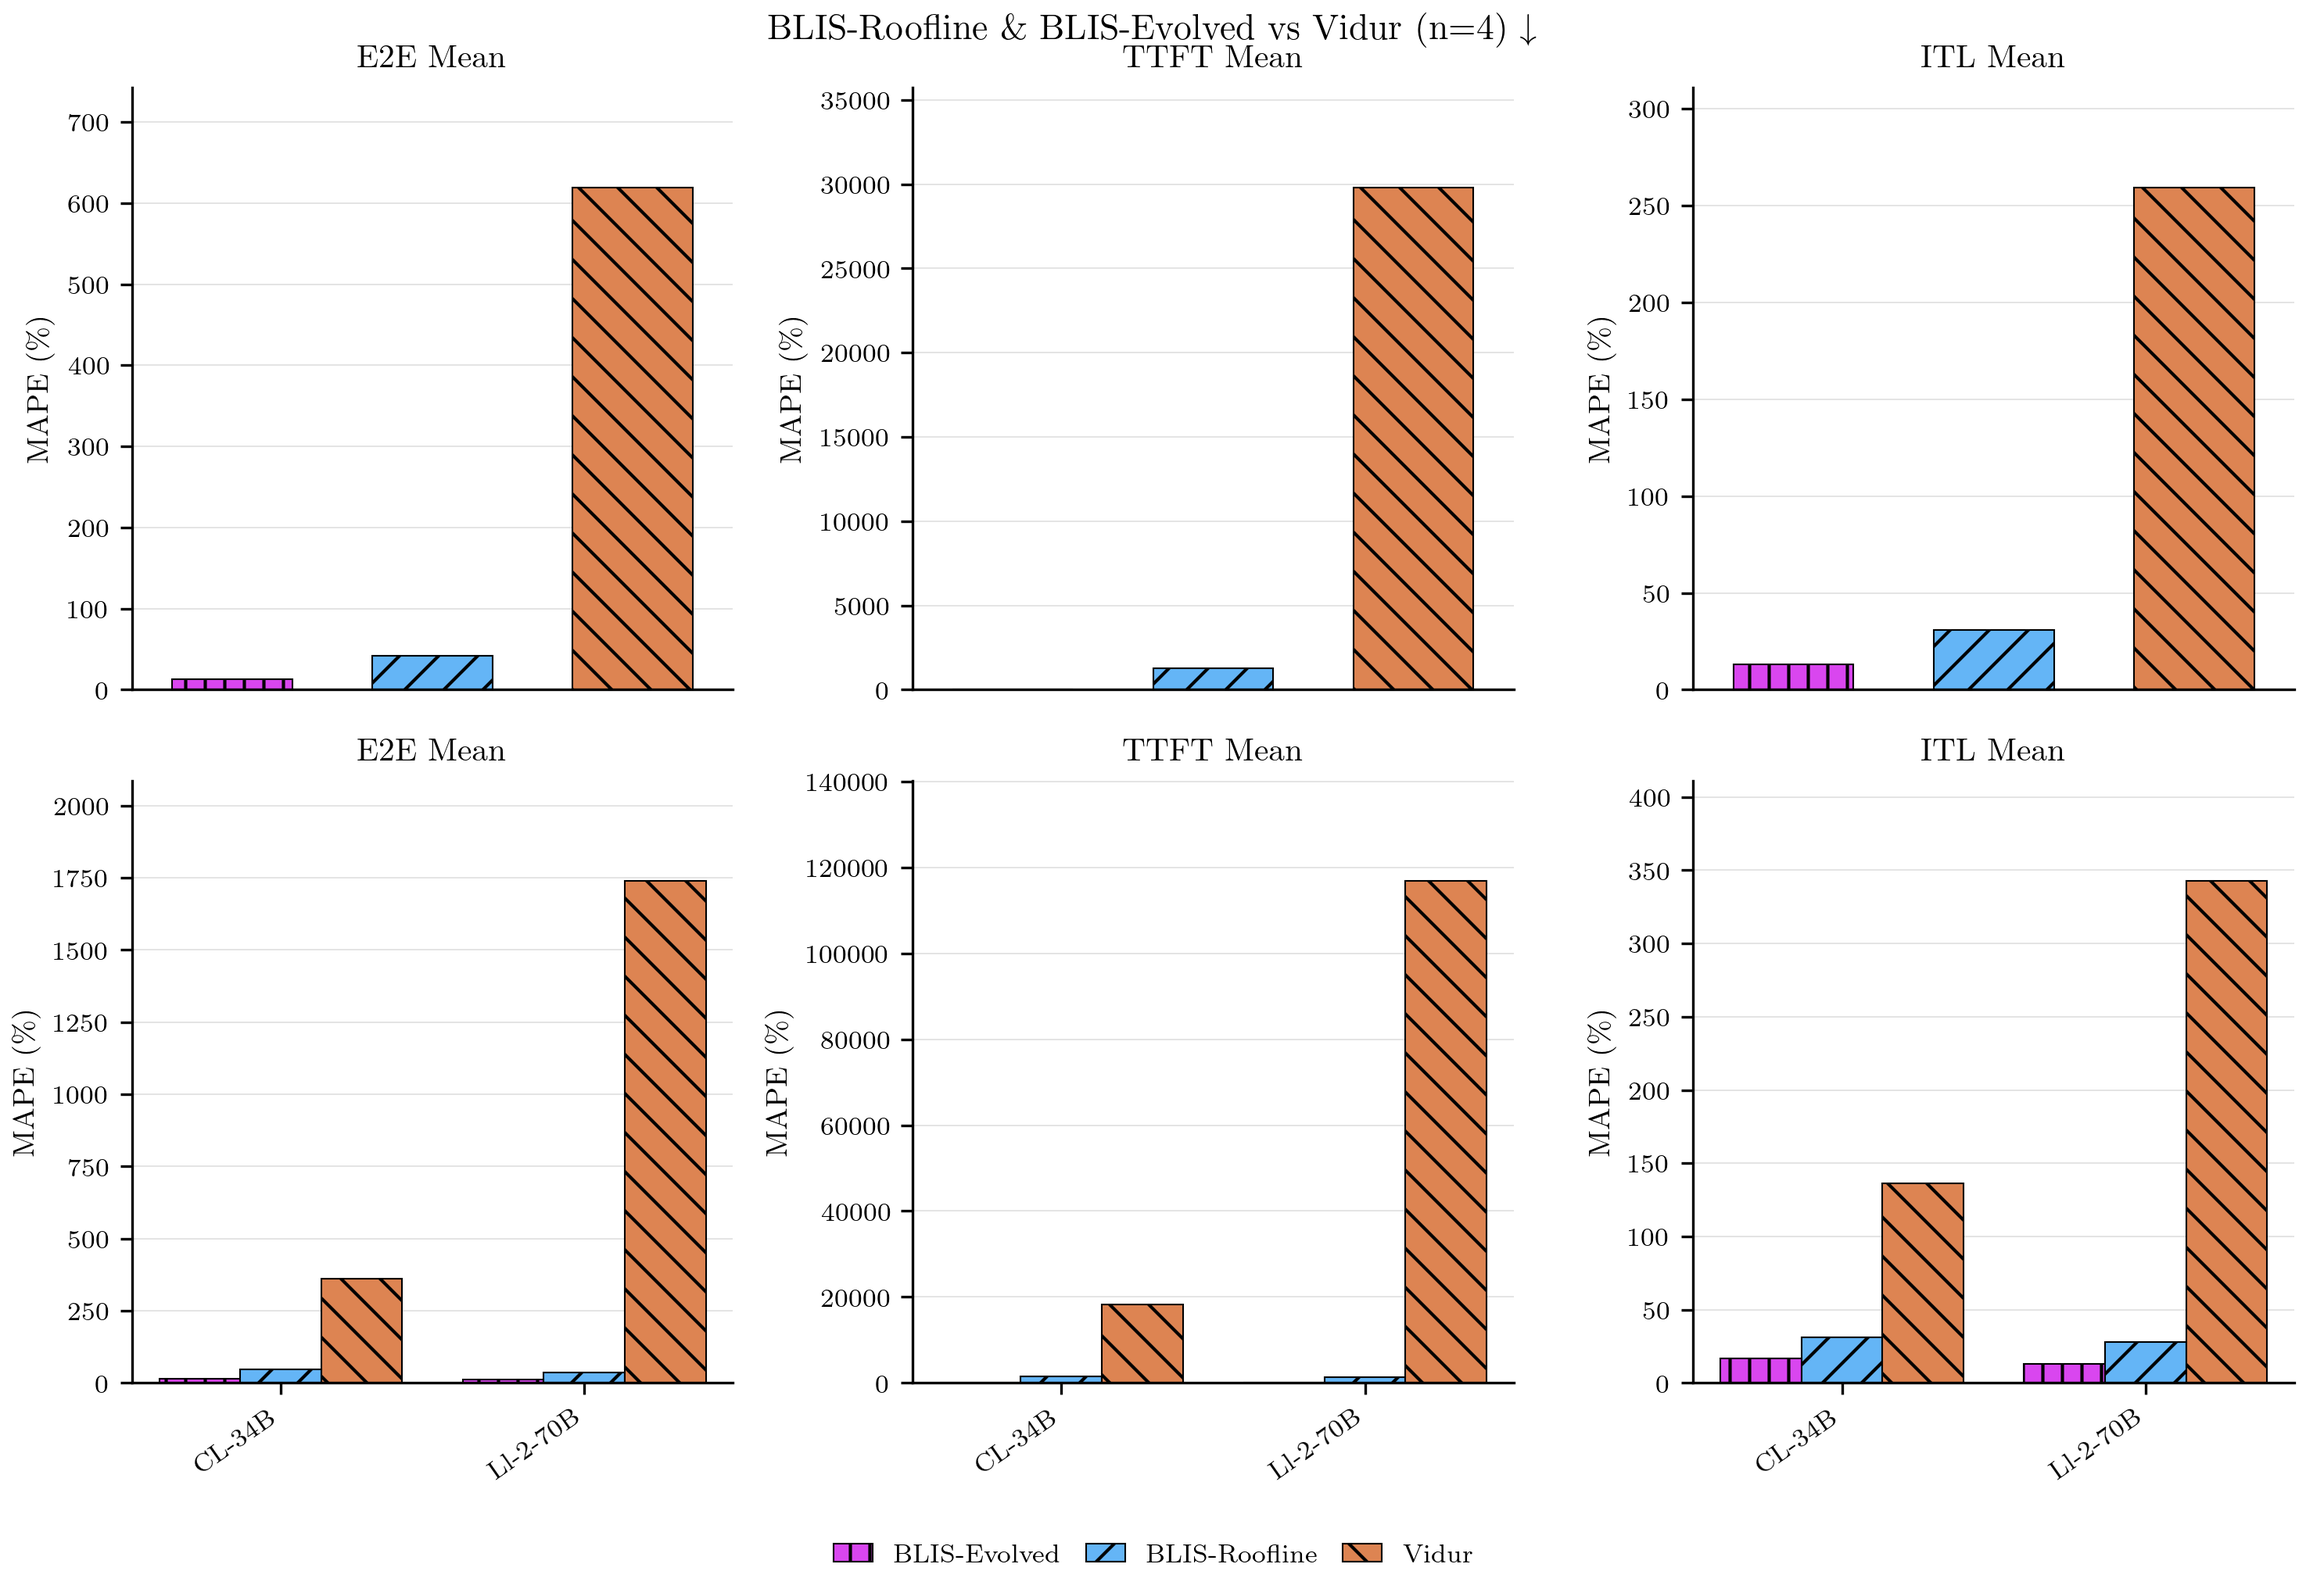
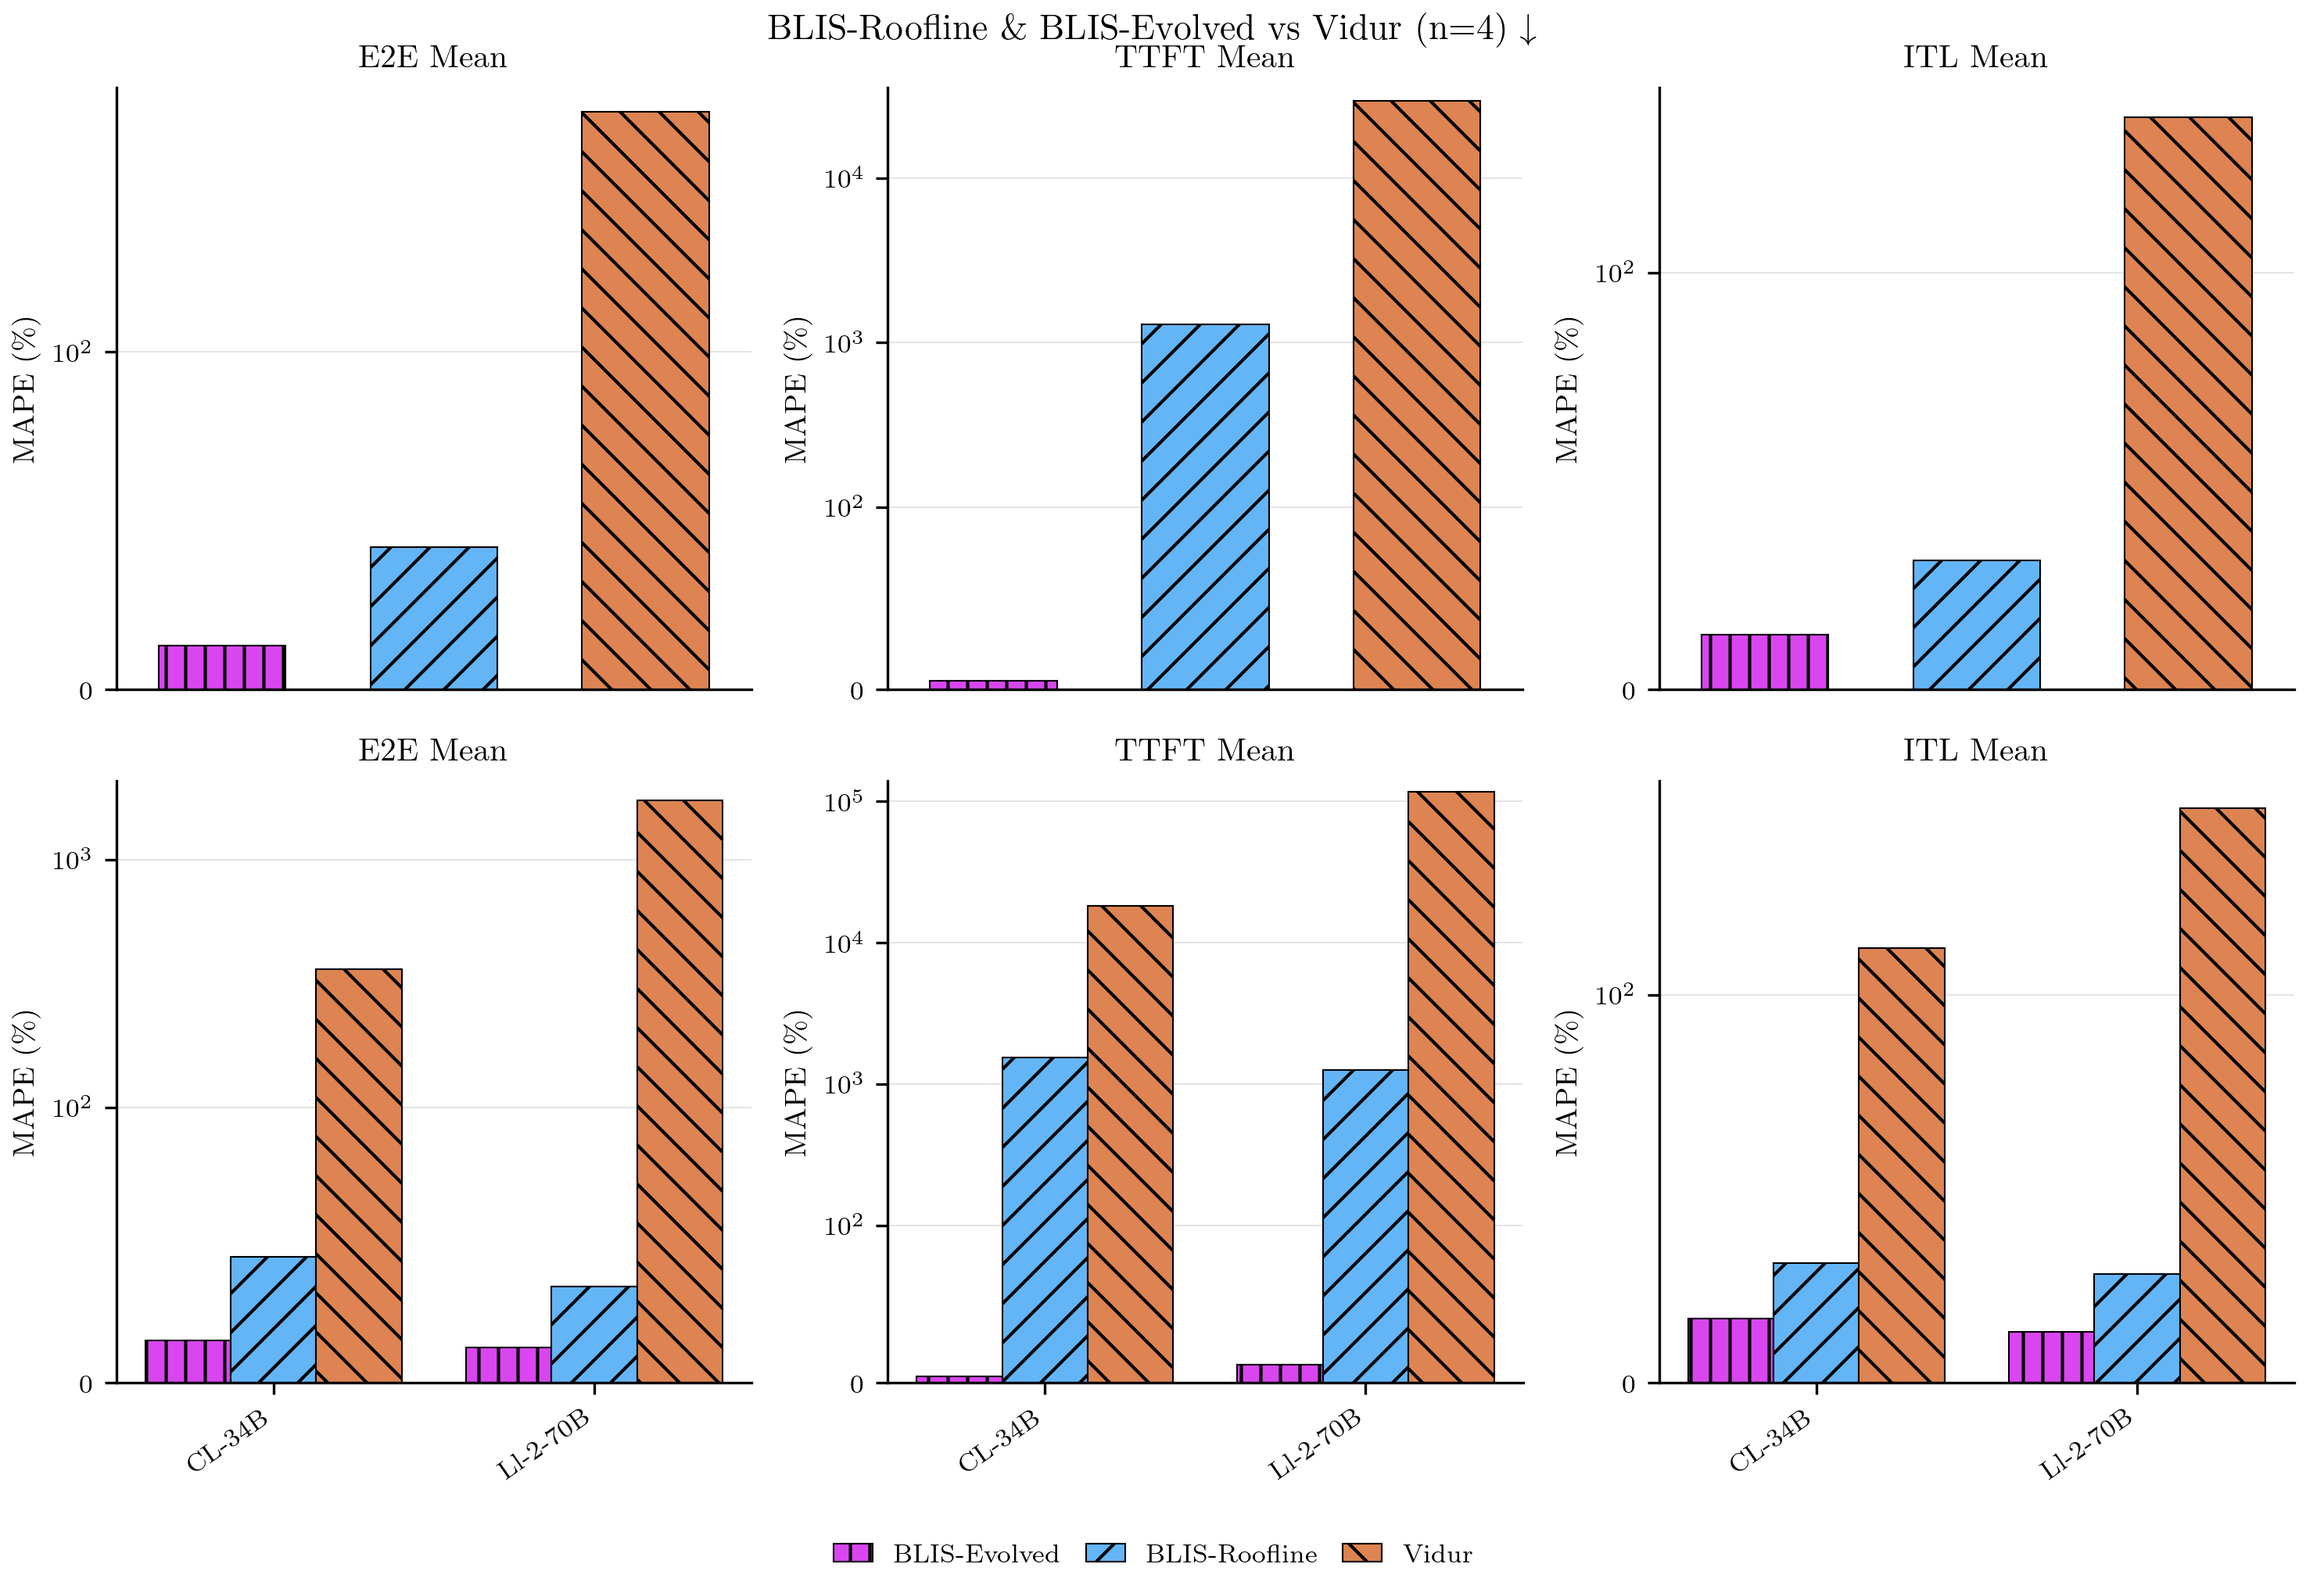
feat: add symlog scale to blis vs vidur comparison
Adds symmetric logarithmic y-axis scale to the BLIS vs Vidur
simulator comparison figure with linear threshold of 100.

This better visualizes the wide MAPE range in the Vidur comparison,
where values can span from <10% to >100%.

Changes:
- Added yscale and yscale_linthresh parameters to plot_simulator_comparison()
- Applied symlog scale to both top (aggregate) and bottom (model breakdown) rows
- Updated comparison_pairs loop to pass yscale='symlog' for vidur
- Regenerated blis_vs_vidur.pdf/png

diff --git a/experiment/figures.py b/experiment/figures.py
@@ -1024,6 +1024,8 @@ def plot_simulator_comparison(
     sim1: str | list[str],
     sim2: str,
     output_path: str | None = None,
+    yscale: str | None = None,
+    yscale_linthresh: float = 100,
 ) -> plt.Figure | None:
     """Compare simulators with 2×3 grid (aggregate + model breakdown).
 
@@ -1037,6 +1039,10 @@ def plot_simulator_comparison(
         If a list, will include whichever simulators have data (doesn't require all)
     sim2 : str
         Simulator to compare against
+    yscale : str, optional
+        Scale for y-axis ('linear', 'log', 'symlog'). If None, uses linear.
+    yscale_linthresh : float, default=100
+        Linear threshold for symlog scale (values below this use linear scale).
 
     Only includes experiments where at least one sim1 simulator and sim2 have data.
     Aggregates across all configs and workloads.
@@ -1108,6 +1114,14 @@ def plot_simulator_comparison(
         y_top = col_maxes_bottom[col_idx] * 1.20 if col_maxes_bottom[col_idx] > 0 else 1.0
         axes[1, col_idx].set_ylim(bottom=0, top=y_top)
         axes[1, col_idx].set_ylabel(f"MAPE ({pct})")
+
+        # Apply y-axis scale if specified
+        if yscale == 'symlog':
+            axes[0, col_idx].set_yscale('symlog', linthresh=yscale_linthresh)
+            axes[1, col_idx].set_yscale('symlog', linthresh=yscale_linthresh)
+        elif yscale is not None:
+            axes[0, col_idx].set_yscale(yscale)
+            axes[1, col_idx].set_yscale(yscale)
 
     # Title
     sim2_display = SIMULATOR_DISPLAY_NAMES.get(sim2, sim2)
@@ -1789,6 +1803,11 @@ def main(argv: list[str] | None = None) -> None:
 
     for sim1, sim2, filename in comparison_pairs:
         try:
+            # Determine yscale settings (use symlog for vidur comparison)
+            yscale_kwargs = {}
+            if filename == "blis_vs_vidur.pdf":
+                yscale_kwargs = {"yscale": "symlog", "yscale_linthresh": 100}
+
             # Special handling for llmservingsim comparisons: use cluster results if available and complete
             if filename == "blis_vs_llmservingsim.pdf":
                 cluster_error_csv = "results/cluster_2000req/error_records.csv"
@@ -1809,7 +1828,8 @@ def main(argv: list[str] | None = None) -> None:
                         print(f"  Using cluster results for {filename}")
                         fig = plot_simulator_comparison(
                             cluster_error_df, sim1, sim2,
-                            os.path.join(sim_comparison_dir, filename)
+                            os.path.join(sim_comparison_dir, filename),
+                            **yscale_kwargs
                         )
 
                 if not use_cluster:
@@ -1817,13 +1837,15 @@ def main(argv: list[str] | None = None) -> None:
                     print(f"  Using regular results for {filename} (cluster incomplete or missing)")
                     fig = plot_simulator_comparison(
                         error_df_full, sim1, sim2,
-                        os.path.join(sim_comparison_dir, filename)
+                        os.path.join(sim_comparison_dir, filename),
+                        **yscale_kwargs
                     )
             else:
                 # Use error_df_full (unfiltered) so we always include all simulators
                 fig = plot_simulator_comparison(
                     error_df_full, sim1, sim2,
-                    os.path.join(sim_comparison_dir, filename)
+                    os.path.join(sim_comparison_dir, filename),
+                    **yscale_kwargs
                 )
             if fig is not None:
                 plt.close(fig)
